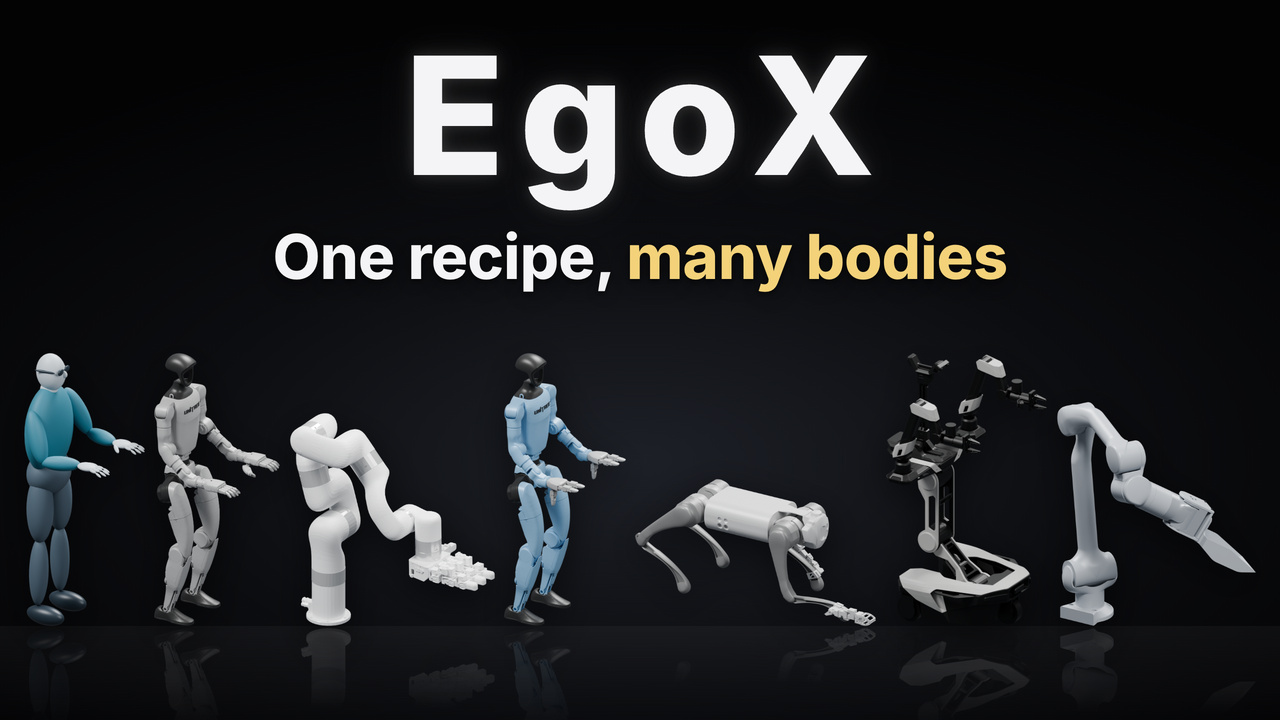
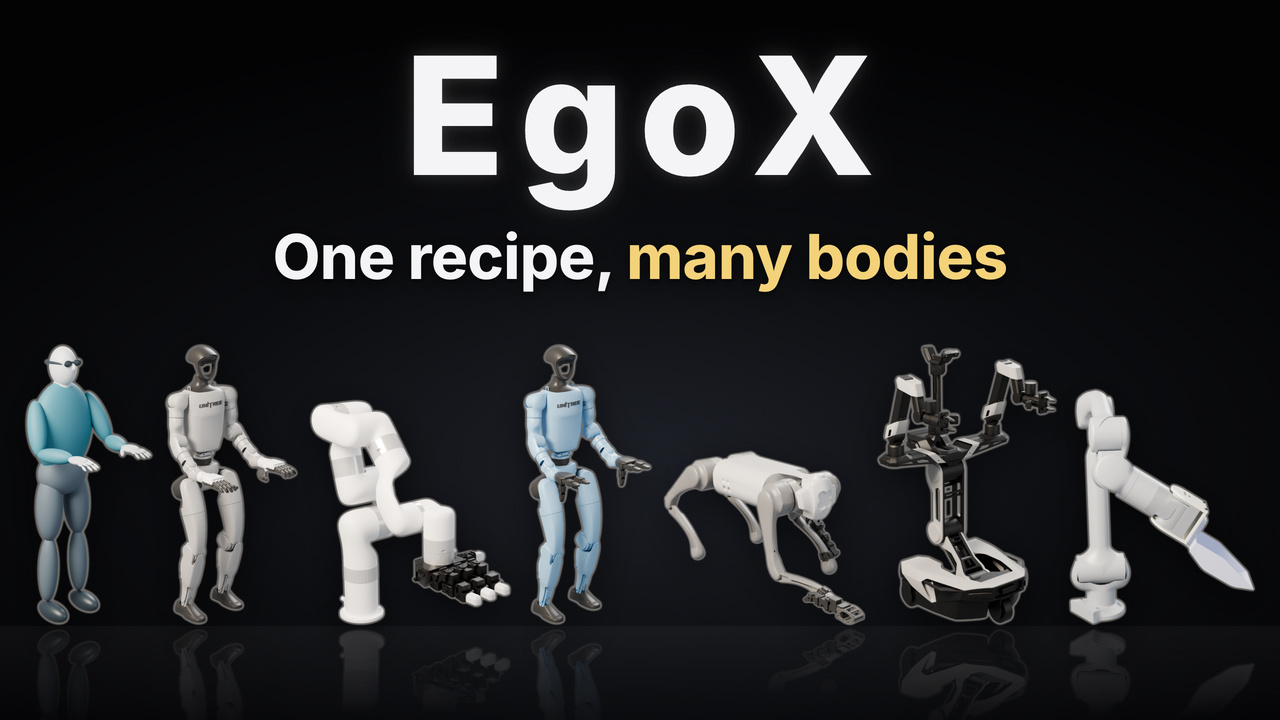
Add a Dataset button for the Hugging Face dataset and update the teaser video poster

Changed region(s): [[0.0, 0.4583, 1.0, 0.9167], [0.75, 0.8556, 0.7812, 0.8861], [0.3438, 0.8861, 0.375, 0.9167]]

diff --git a/index.html b/index.html
@@ -85,6 +85,14 @@
             <span>Code</span>
           </a>
         </span>
+        <!-- Dataset Link -->
+        <span class="link-block">
+          <a href="https://huggingface.co/datasets/binghong0727/egox" target="_blank"
+             class="external-link button is-normal is-rounded is-dark">
+            <span class="icon"><i class="fas fa-database"></i></span>
+            <span>Dataset</span>
+          </a>
+        </span>
         <!-- Video Link -->
         <span class="link-block">
           <a href="https://youtu.be/DRBQOCBXF8E" target="_blank"
